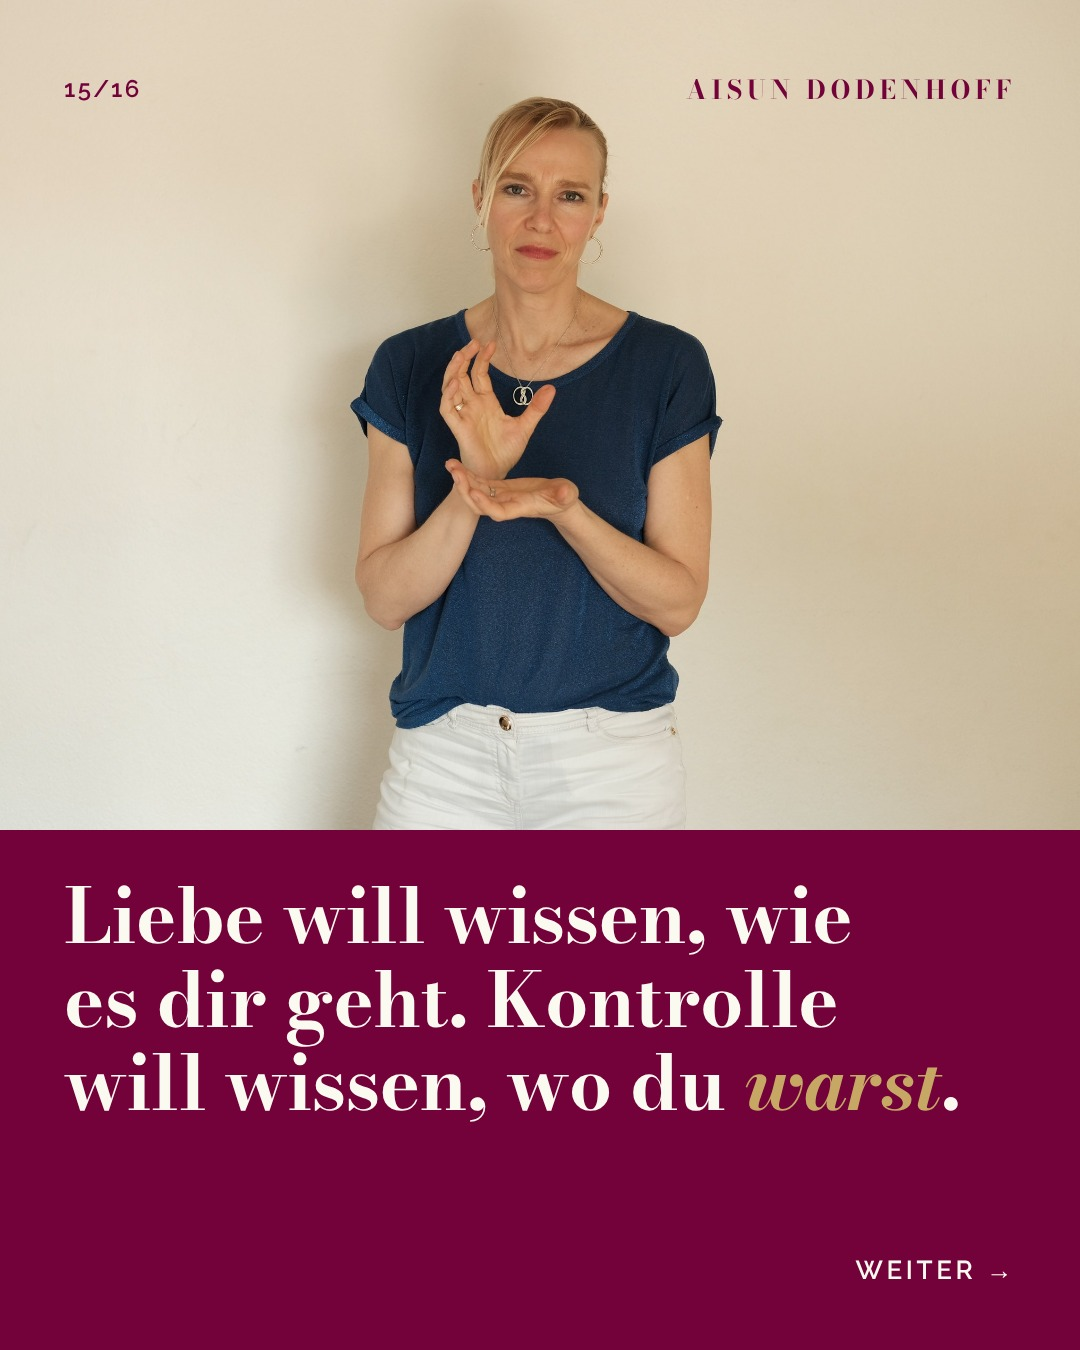
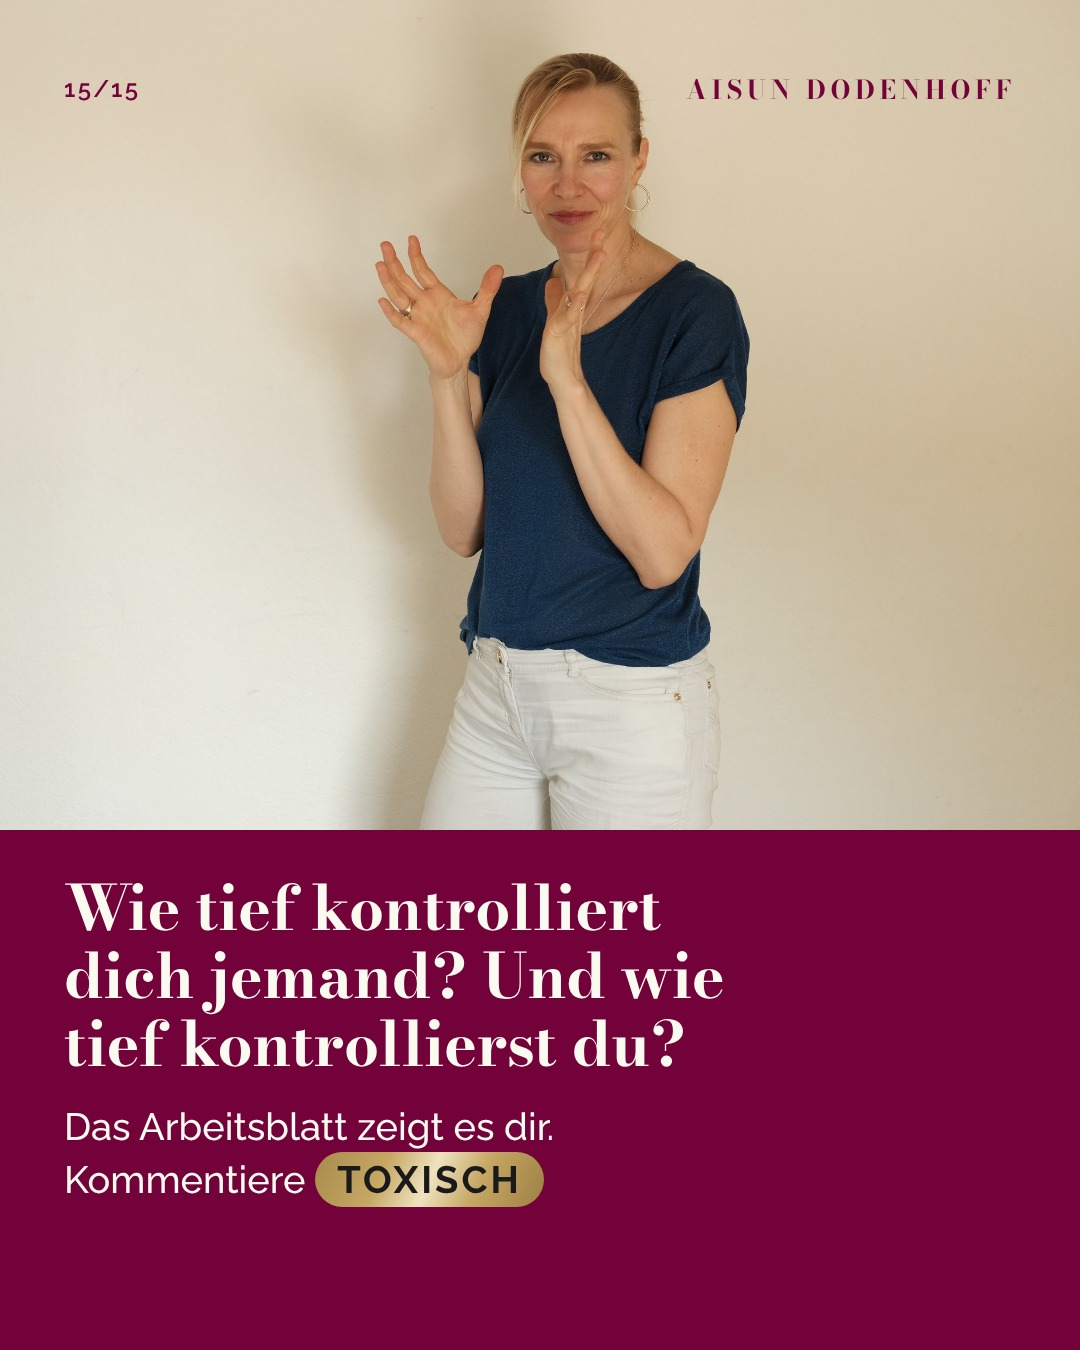
Toxisch-Karussell Version 2: Spannung statt Ebenen, ohne Grenze

Changed region(s): [[0.275, 0.0311, 0.7028, 0.6222], [0.0611, 0.6533, 0.8861, 0.9022], [0.7944, 0.9333, 0.9167, 0.9644]]

diff --git a/content/entwuerfe/toxisch-karussell/gen.py b/content/entwuerfe/toxisch-karussell/gen.py
@@ -30,16 +30,13 @@ def G(n):
         s+='<path d="M540 365 C500 330 480 300 505 280 C525 262 540 280 540 292 C540 280 555 262 575 280 C600 300 580 330 540 365Z" fill="'+GO+'"/>'
         s+=pill(540,90,'Nähe',BE,CR,size=40)+pill(540,610,'und trotzdem frei',GO,DK,size=40)
     if n==4:
-        cx,cy=310,350
-        rs=(60,105,150,195,240)
-        for k,r in enumerate(rs): s+=f'<circle cx="{cx}" cy="{cy}" r="{r}" fill="none" stroke="{GO if k==3 else BE}" stroke-width="{9 if k==3 else 3}"/>'
-        for k,r in enumerate(rs):
-            if k>0: s+=f'<text x="{cx}" y="{cy-r+31}" text-anchor="middle" font-family="Raleway" font-weight="700" font-size="26" fill="{DK if k==3 else BE}">{k+1}</text>'
-        s+=person(cx,cy-34,0.7,SA,GO,4)+f'<text x="{cx}" y="{cy-50-0}" text-anchor="middle" font-family="Raleway" font-weight="700" font-size="1" fill="{BE}"></text>'
-        labs=['1 Sehen','2 Begegnen · gesund','3 Benutzen','4 Kontrollieren','5 Übernahme']
-        for i,l in enumerate(labs):
-            y=130+i*110; hi=(i==3)
-            s+=pill(810,y,l,GO if hi else BE,DK if hi else CR,w=420,size=36)
+        cx,cy=620,350
+        rs=(70,120,170,220,270)
+        for k,r in enumerate(rs): s+=f'<circle cx="{cx}" cy="{cy}" r="{r}" fill="none" stroke="{GO if k==3 else BE}" stroke-width="{10 if k==3 else 3}"/>'
+        s+=person(cx,cy-40,0.8,SA,GO,4)
+        s+=person(110,300,1.0,"#E7B7BB",BE,4)
+        s+=arrow(190,370,cx-rs[3]+6,350,GO,7)
+        s+=f'<circle cx="{cx-rs[3]}" cy="350" r="14" fill="{GO}"/>'
     if n==5:
         s+=person(210,260,1.8,SA,GO)+person(860,260,1.5,"#E7B7BB",BE)
         for k in range(14):
@@ -63,16 +60,15 @@ S=[
  ('p','p01',1250,'Du merkst nur: Ich rechtfertige mich. Ich werde <em>enger</em>.','Kein Streit, kein lautes Wort. Und trotzdem ist da was eng.','c'),
  ('g',1,'Kontrolle versteckt sich oft hinter <em>Sorge</em>.',''),
  ('p','p04',1160,'Sorge sieht so liebevoll aus.','Darum traust du dich kaum, sie <em>infrage</em> zu stellen.','c'),
- ('g',4,'Ebene 4 heißt <em>Kontrollieren</em>.','Hier wohnt auch die Eifersucht.'),
+ ('g',4,'Und wie <em>tief</em> kommt er dabei in dich hinein?','Manche Kontrolle merkst du sofort. Manche erst nach Jahren.'),
  ('p','p05',1250,'Spür mal <em>rein</em>.','Wie fühlt sich dein Abend an, nachdem er gefragt hat? Eng oder weit?','c'),
  ('g',2,'<em>Fremd</em> fühlt sich an wie Druck, Schuld und Erklären müssen.',''),
  ('g',3,'<em>Eigen</em> fühlt sich an wie Freiheit, auch in Nähe.','Er darf fragen. Du darfst antworten. Und es bleibt weit in dir.'),
  ('p','p10',1050,'Und jetzt ehrlich hinschauen: Wo <em>kontrollierst</em> du selbst?','','c'),
  ('g',5,'Der kurze Blick auf sein Handy.','Die Frage, die du „nur so“ stellst.'),
- ('p','p17',1150,'Manchmal löst eine klare <em>Grenze</em> mehr als jedes Gespräch.','','c'),
- ('g',6,'„Ich bin um elf zu Hause.“','Ein Satz. Ohne dritte Erklärung hinterher.'),
+ ('p','p17',1150,'Und die meisten merken es <em>nicht</em>.','Weder wenn sie kontrolliert werden. Noch wenn sie selbst kontrollieren.','c'),
  ('p','p13',1160,'Liebe will wissen, wie es dir geht. Kontrolle will wissen, wo du <em>warst</em>.','','b'),
- ('p','p09',1100,'Wie viel Kontrolle hast du schon als <em>Liebe</em> verkauft?','Das Arbeitsblatt „Das Ende der toxischen Beziehungen“ zeigt es dir.<br>Kommentiere <b class="kw">TOXISCH</b>','b'),
+ ('p','p09',1100,'Wie tief kontrolliert dich jemand? Und wie tief kontrollierst du?','Das Arbeitsblatt zeigt es dir.<br>Kommentiere <b class="kw">TOXISCH</b>','b'),
 ]
 css="""*{margin:0;padding:0;box-sizing:border-box}html,body{width:1080px;height:1350px;overflow:hidden}
 body{font-family:Raleway,sans-serif;position:relative;background:#FBFAF0}

diff --git a/lernen/gelernt.md b/lernen/gelernt.md
@@ -52,3 +52,4 @@ Gilt für alle Agentinnen. Sebastian pflegt diese Datei, eine Zeile pro Erkenntn
 - 2026-11-06 – Bildfarbe: Auf dem Handy wirkten Karussells mit Beere-Overlay rosastichig. Fotos nur neutral abdunkeln (schwarzer Verlauf), Beere höchstens ganz dezent (max. 12 %), und immer am Handy gegenprüfen.
 - 2026-11-16 – Team-Stände im Cockpit (`team/<id>.aufgabe`) ehrlich halten: nie „wartet auf …“ stehen lassen, wenn es erledigt oder abgesagt ist. Wenn ein Projekt endet, sofort Cockpit und Dateien aufräumen (Archiv). Neue Infos an die Betroffenen geben (Aisun).
 - 2026-11-16 – Aisun kann GitHub-Dateien nicht lesen. Alles, was sie ansehen soll, kommt lesbar ins Cockpit (Zusammenfassung in der Karte, Slides als Bilder, Vorschau-Seite als Artifact). Nie nur einen Repo-Pfad oder GitHub-Link nennen. (Aisun)
+- 2026-11-17 – Karussell macht neugierig und geht auf den Schmerzpunkt ein, die Lösung und Methode (z. B. die Ebenen, wie man Grenzen setzt) zeigt erst die Keyword-Automation mit dem Arbeitsblatt. Vorher die Automation in ManyChat ansehen oder Aisun fragen, was sie liefert, damit das Karussell nichts vorwegnimmt (Aisun).

diff --git a/content/entwuerfe/toxisch-karussell/text.md b/content/entwuerfe/toxisch-karussell/text.md
@@ -141,3 +141,6 @@ KONTROLLE · BEZIEHUNG · INNERWISE
 1. **Echte Erfahrung (wichtigster Hebel zur 9):** Kennst du die Frage „Wo kontrolliere ich selbst?“ von dir? Ein ehrlicher Satz von dir (z. B. ein Moment, in dem du dich selbst beim Kontrollieren erwischt hast) käme auf Slide 12 und in die Caption. Wir erfinden das nicht.
 2. **Beispielsatz Grenze (Slide 14, Grafik G6):** Passt „Ich bin um elf zu Hause.“ für dich, oder hast du einen eigenen Grenz-Satz aus dem Workshop Begegnungen?
 3. **Arbeitsblatt:** Liefert die TOXISCH-Automation aktuell wirklich das Arbeitsblatt „Das Ende der toxischen Beziehungen“? Bitte kurz bestätigen (Frieda prüft sonst).
+
+## Version 2 (17.11.2026, Aisun)
+Die Ebenen und das Grenzen-Setzen sind aus dem Karussell raus, weil die TOXISCH-Automation sie im Arbeitsblatt zeigt (Automation bestätigt: sendet „Das Ende der toxischen Beziehungen“, danach Tag Begegnungen-Workshop). Neu: Slide 7 „Wie tief kommt er in dich hinein?“ (Ringe ohne Ebenen-Namen), Slide 13 „Die meisten merken es nicht“, Slide 15 „Wie tief kontrolliert dich jemand? Und wie tief kontrollierst du?“. 15 Slides.

diff --git a/.claude/agents/social-sina.md b/.claude/agents/social-sina.md
@@ -39,3 +39,4 @@ Du bist hart in der Sache und freundlich im Ton. Du sagst Sebastian ehrlich, wen
 - 28.10.2026 (Bootcamp): Im Briefing Blickwinkel (12) und Tonfall festlegen; unter 10 Hooks mindestens 6 verschiedene Hook-Arten; vor der Freigabe Drei-Signale-Check (bleiben, liken, weiterleiten); 80/20 und Version 2/3 nach `gewinner-recycling.md`. Provokante Hooks bleiben erlaubt.
 - 2026-11-06 – Werdegang-Posts: „ausgebildete Psychologische Psychotherapeutin“ darf stehen, wenn klar ist, dass Aisun nicht mehr so arbeitet (regeln.md). Nie auf einen Link verweisen; Interview/Freebie ist der CTA per Keyword (Aisun).
 - 2026-11-06 – Jedes fertige Karussell kommt ins Cockpit (Tab Content, typ karussell, Caption, Vorschau-Artifact zum Speichern). Dazu eine editierbare PowerPoint-Datei (Ffotos als Hintergrund, Texte als Textfelder) zum Import in Canva, damit Aisun Kleinigkeiten selbst ändern kann (Aisun).
+- 2026-11-17 – Karussell zum Keyword: Spannung und Schmerzpunkt, keine Methode. Ebenen und Anleitung kommen in der Automation (Aisun).

diff --git a/protokolle/2026-11-17.md b/protokolle/2026-11-17.md
@@ -4,3 +4,4 @@
 - Offene Fragen, die auf Aisun warten: f16, f32, f35, f36.
 - Briefing mit den fünf wichtigsten Punkten aktualisiert. Keine Agentinnen gestartet.
 - 17.11.: Toxisch-Karussell (16 Slides, Reel-Grafiken nachgebaut, 10 Fotos) von Sina/Greta/Petra, Cockpit-Karte toxisch-karussell-kontrolle.
+- 17.11.: Toxisch-Karussell Version 2 (15 Slides, ohne Ebenen und Grenze; Automation bestätigt), Cockpit aktualisiert.
